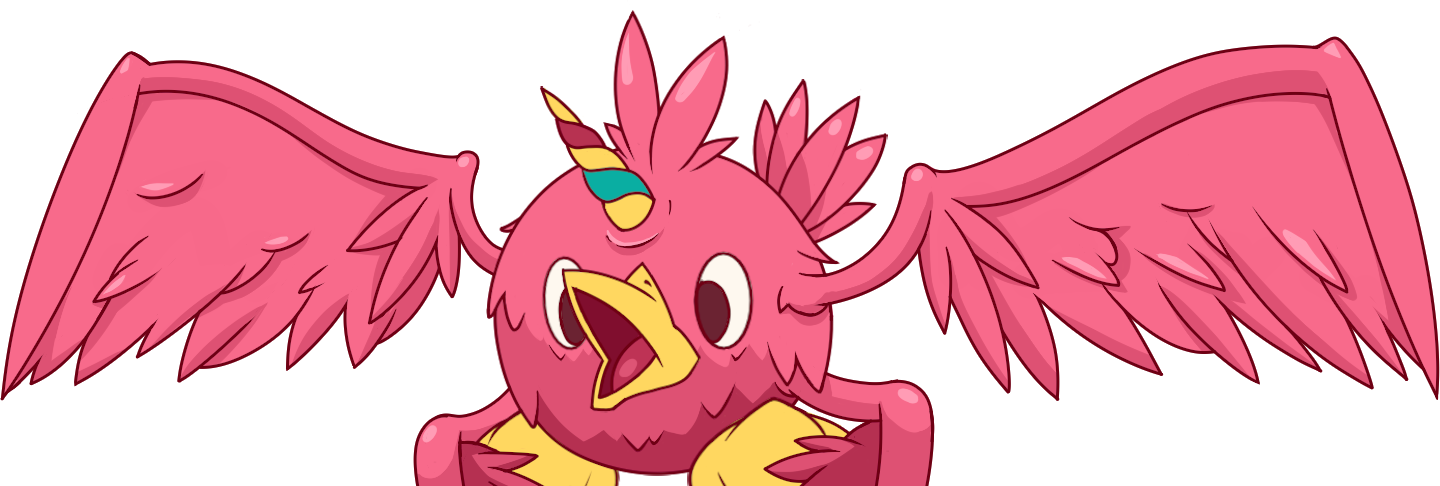
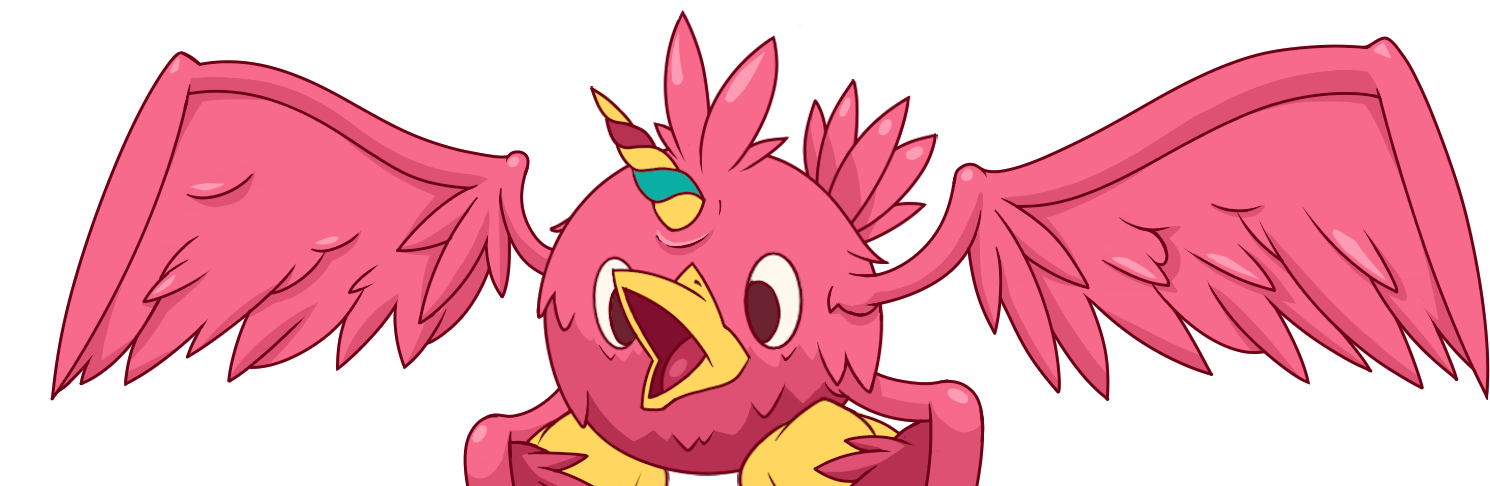
CSS finished !

Changed region(s): [[0.0, 0.0309, 1.0, 1.0], [0.7812, 0.0926, 0.875, 0.1852], [0.9688, 0.3086, 1.0, 0.3395]]

diff --git a/main.css b/main.css
@@ -87,6 +87,7 @@ header {
     position: fixed;
     top: .5em;
     right: .625em;
+    z-index: 1;
 }
 .nav__svg {
     padding: 1.0625em .875em;
@@ -98,7 +99,6 @@ header {
 .nav__button:checked ~ .nav__ul {
     display: block;
     position: fixed;
-    z-index: 2;
     top: 0;
     right: 0;
 }
@@ -106,7 +106,7 @@ header {
     position: fixed;
     top: .5em;
     right: .625em;
-    z-index: 10;
+    z-index: 2;
 }
 .nav__button:checked ~ .nav__groupSvg .nav__svg {
     background-color: transparent;
@@ -135,10 +135,35 @@ header {
 }
 .header__img {
     display: block;
-    position: relative;
-    left: 50%;
-    transform: translate(-47.5%, 0);
     pointer-events: none;
+}
+.header__leyebrow {
+    width: 45px;
+    pointer-events: none;
+}
+.header__reyebrow {
+    width: 50px;
+    pointer-events: none;
+}
+.header__leye {
+    width: 100%;
+    display: flex;
+    align-items: center;
+    justify-content: center;
+    margin-top: -140px;
+}
+.header__leye div {
+    margin-left: -145px;
+}
+.header__reye {
+    width: 100%;
+    display: flex;
+    align-items: center;
+    justify-content: center;
+    margin-top: -40px;
+}
+.header__reye div {
+    margin-left: 35px;
 }
 
 /* TODO */
@@ -500,7 +525,26 @@ section:last-child .intro__text {
     .header__img {
         max-height: 264px;
         margin-top: 50px;
-
+    }
+    .header__leye {
+        width: 100%;
+        display: flex;
+        align-items: center;
+        justify-content: center;
+        margin-top: -150px;
+    }
+    .header__leye div {
+        margin-left: -152px;
+    }
+    .header__reye {
+        width: 100%;
+        display: flex;
+        align-items: center;
+        justify-content: center;
+        margin-top: -40px;
+    }
+    .header__reye div {
+        margin-left: 40px;
     }
 
     .socials__item {
@@ -627,6 +671,24 @@ section:last-child .intro__text {
     .header__img {
         max-height: 790px;
         margin-top: 50px;
+    }
+    .header__leyebrow {
+        width: 50px;
+    }
+    .header__reyebrow {
+        width: 55px;
+    }
+    .header__leye {
+        margin-top: -655px;
+    }
+    .header__leye div {
+        margin-left: -175px;
+    }
+    .header__reye {
+        margin-top: -45px;
+    }
+    .header__reye div {
+        margin-left: 45px;
     }
 
     .socials__item {
@@ -962,6 +1024,16 @@ a:focus .portfolioIllu__promoButton {
     animation: botBar .5s ease-in-out forwards;
 }
 
+.header__leye {
+    animation: leftEye 2s ease-in-out;
+    animation-iteration-count: infinite;
+}
+.header__reye {
+    animation: rightEye 2s ease-in-out;
+    animation-iteration-count: infinite;
+}
+
+
 .portfolioIllu__promoButton:hover {
     -webkit-animation: pop .5s ease-in-out forwards;
     -moz-animation: pop .5s ease-in-out forwards;
@@ -1184,5 +1256,25 @@ a:focus .portfolioIllu__promoButton {
     100% {
         transform-origin: 17.5%;
         transform: translate(0) rotate(-45deg);
+    }
+}
+@keyframes leftEye {
+    0% {
+        transform: rotate(0);
+    }
+    50% {
+        transform: rotate(5deg);
+    }
+    100% {
+    }
+}
+@keyframes rightEye {
+    0% {
+        transform: rotate(0);
+    }
+    50% {
+        transform: rotate(-10deg);
+    }
+    100% {
     }
 }

diff --git a/index.html b/index.html
@@ -99,11 +99,15 @@
                 <img class="header__img" src="img/bird_small.png" alt="Birdy, l'oiseau rose">
             </picture>
         </div>
-        <div class="header__leye hidden">
-            <img class="header__leyebrow" src="img/l_eyebrow.png" alt="Sourcil gauche de Birdy">
+        <div class="header__leye">
+            <div>
+                <img class="header__leyebrow" src="img/l_eyebrow.png" alt="Sourcil gauche de Birdy">
+            </div>
         </div>
-        <div class="header__reye hidden">
-            <img class="header__reyebrow" src="img/r_eyebrow.png" alt="Sourcil droit de Birdy">
+        <div class="header__reye">
+            <div>
+                <img class="header__reyebrow" src="img/r_eyebrow.png" alt="Sourcil droit de Birdy">
+            </div>
         </div>
         <canvas id="draw" width="100" height="100">
 
